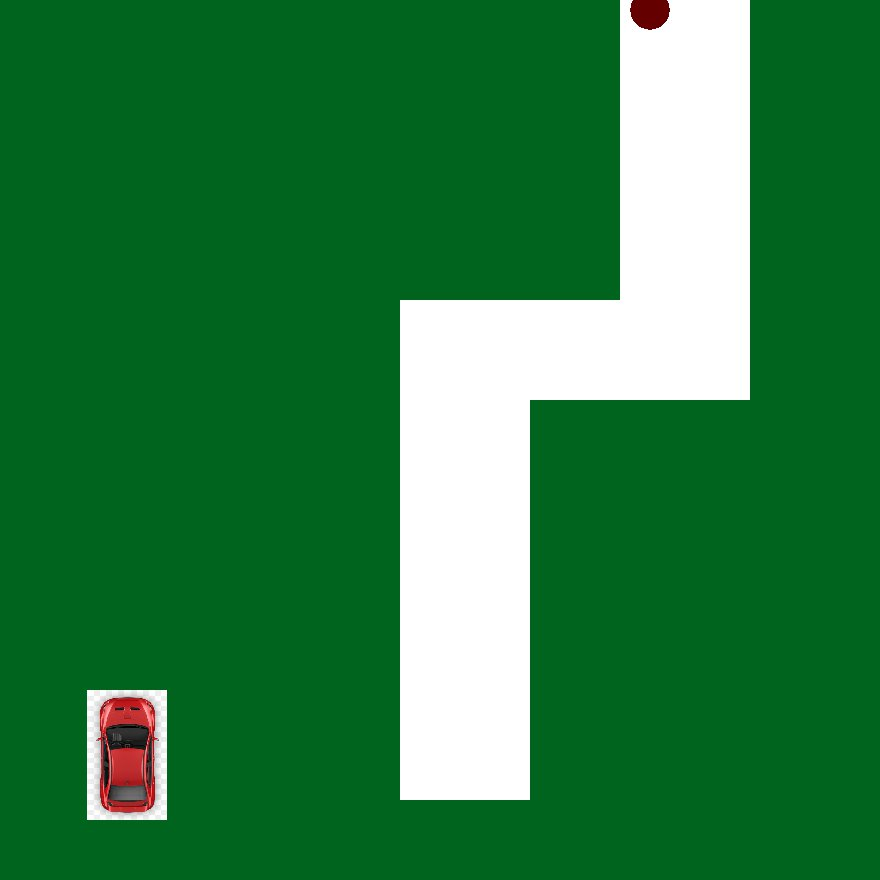
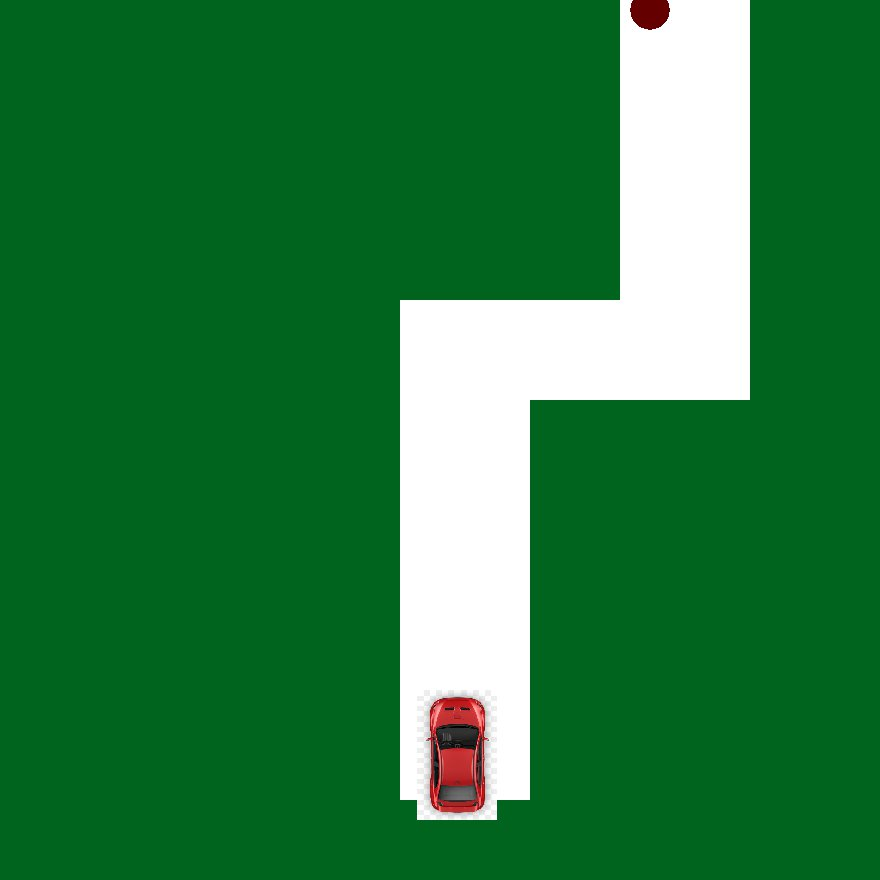
update

Changed region(s): [[0.4602, 0.767, 0.583, 0.9511], [0.092, 0.767, 0.2148, 0.9511]]

diff --git a/network/dqn.py b/network/dqn.py
@@ -40,6 +40,8 @@ class Environment:
     #todo create grid system
     def identify_state(self, obs):
         self.box = []
+        st = obs.reshape(880, 880, 3)
+        green = 0
         #get car position
         #pos is top left corner pos  -> so any position below it along height is border add width that is boundary for right side
         pos = self.track.car.pos
@@ -47,6 +49,8 @@ class Environment:
         height = self.track.car.boundary["y"]
         #starting point
         start = pos[0]
+
+
         for i in range(height):
             #left wall
             self.box.append(("l", pos[0], pos[1] + i))
@@ -61,8 +65,12 @@ class Environment:
 
         #count greens
         for i in range(len(self.box)):
-            if(self.box[i][0] ):
-                pass
+            #green
+            print("val ", st[int(self.box[i][1])][int(self.box[i][2])][1])
+            if st[int(self.box[i][1])][int(self.box[i][2])][0] != 255:
+                print("add green ", i)
+                green += 1
+
         return green
 
     def run_once(self):
@@ -70,7 +78,6 @@ class Environment:
 
     def step(self, action):
         if self.track.car != None:
-            print("action " + str(action))
             self.track.car.control(action)
             self.state = self.track.save_image()
             penalty = self.identify_state(self.state)
@@ -79,9 +86,9 @@ class Environment:
                 self.reward = 1
                 self.done = True
 
+            self.reward = (1 / penalty) / 5
 
-
-
+        print("reward ", self.reward)
         return self.state, self.reward, self.done, 1
 
     def checkProgress(self, car):
@@ -199,7 +206,6 @@ def preprocess_obs(obs):
     img = img.mean(axis=2)
     img = np.array(img)
     img = (img - 128)/ 128 - 1
-    print(img)
 
     #show image
     plt.imshow(img, interpolation="nearest")
@@ -265,7 +271,7 @@ with tf.Session() as sess:
 
         # online dqn plays
         obs, reward, done, info = env.step(action)
-        print("stepped")
+
         next_state = preprocess_obs(obs)
 
         # lets memorize what just happened

diff --git a/game/car.py b/game/car.py
@@ -4,7 +4,7 @@ class Car:
     def __init__(self, id):
         self.id = id
         self.car = None
-        self.x = 835 / 2
+        self.x = 834 / 2
         self.y = 720
         self.destination = None
         self.boundary = {"x": 80, "y": 130}
@@ -23,7 +23,6 @@ class Car:
         print("in control ")
         if direction == 0:
             self.y -= 10
-
         #right
         elif direction == 1:
             self.x += 10
@@ -35,6 +34,8 @@ class Car:
         #left
         elif direction == 3:
             self.x -= 10
+
+        self.pos = (self.x, self.y)
 
     #network input
     def getNetInput(self):

diff --git a/game/track.py b/game/track.py
@@ -65,7 +65,7 @@ class track:
     def save_image(self):
         self.count = 0
         pygame.image.save(self.screen, "../game/images/track" + str(self.count) + ".jpg")
-        pic =  Image.open("../game/images/track" + str(self.count) + ".jpg")
+        pic = Image.open("../game/images/track" + str(self.count) + ".jpg")
         pic = np.array(pic.getdata())
         return pic
 
